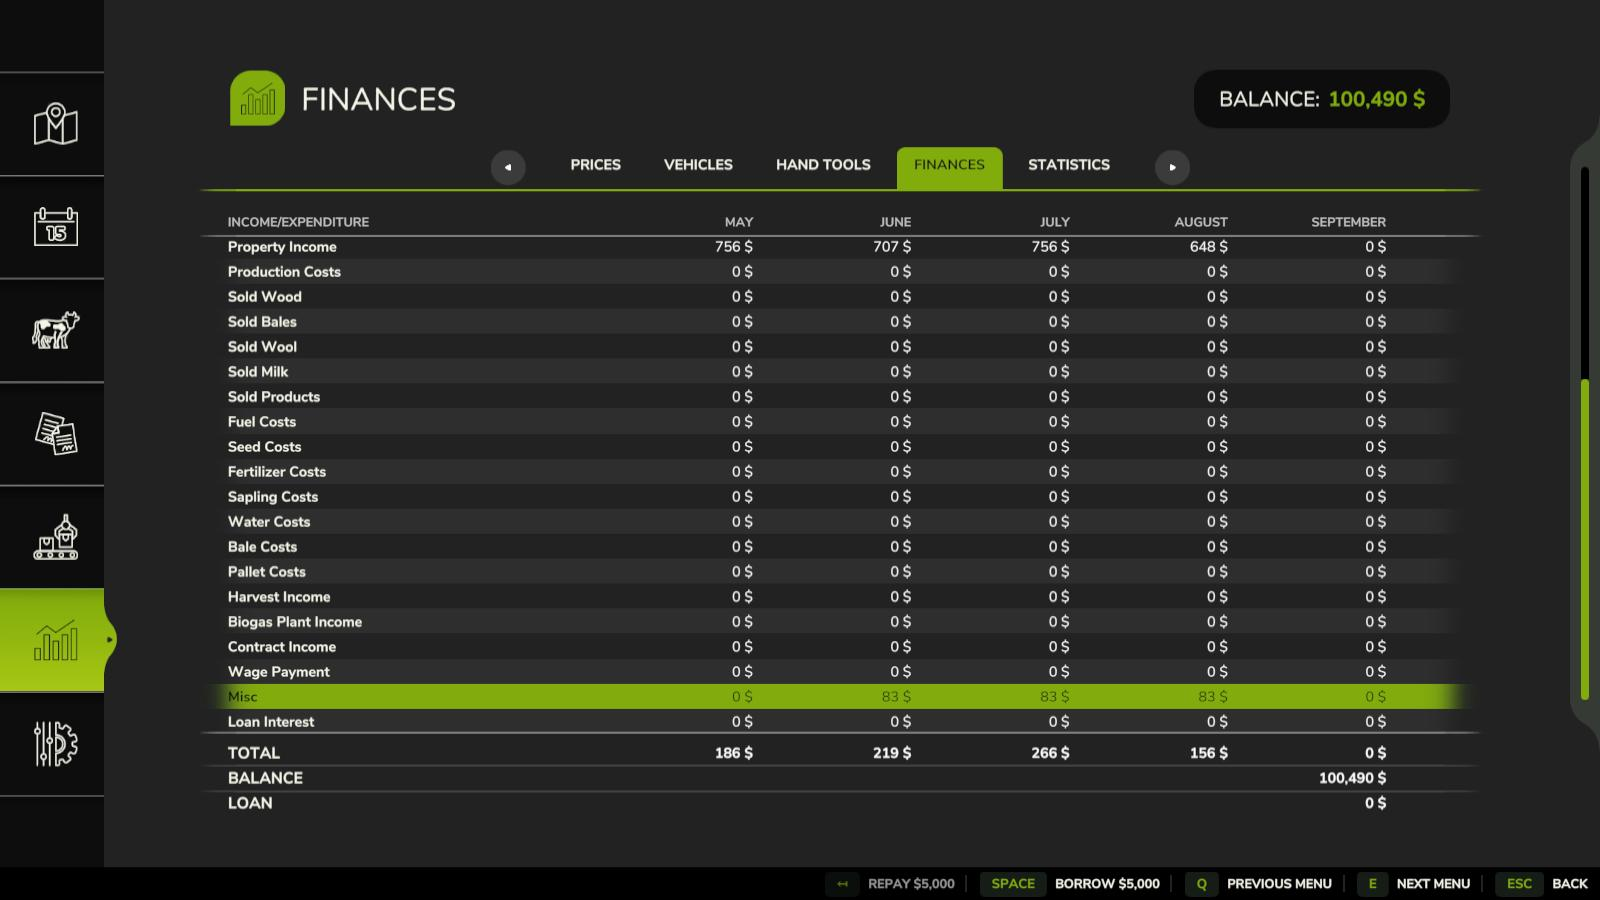
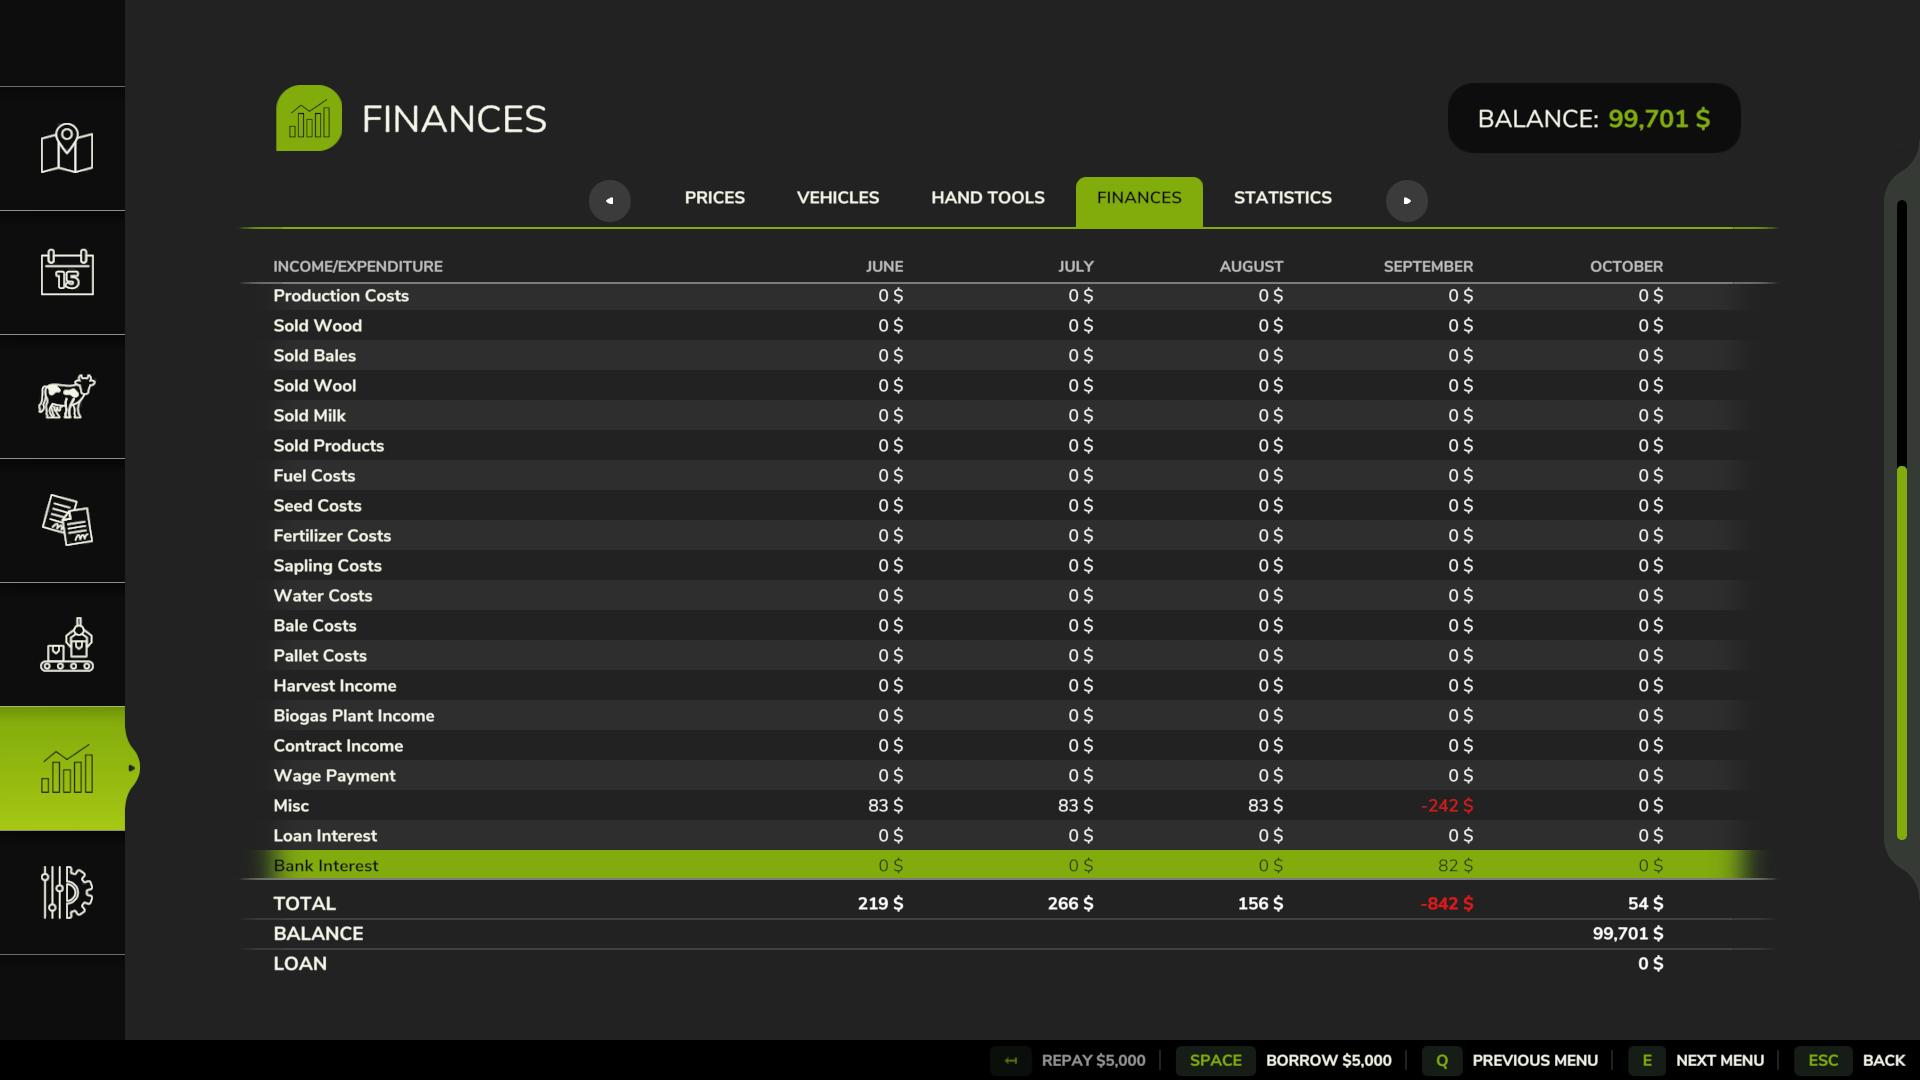
Adds interest paid money type (#3)
* Adds interest paid money type

* Update mod desc to 1.2.0.0

* Update readme commands to list

Pull request: Adds interest paid money type

diff --git a/README.md b/README.md
@@ -1,10 +1,9 @@
-# FS25 Bank Account Interest
+# :moneybag: FS25 Bank Account Interest
 Adds interest calculations so that a farm's bank balance earns interest at the beginning of every month. The default rate is 1% APY.
 
 Two dev console commands have been added to control the interest rate:
-`biSetInterestRate <interest_rate>` - allows the modification of the interest rate. ex: `biSetInterestRate 0.01` would set the interest rate to the default.
-`biGetInterestRate` - prints the current interest rate to the console.
+- `biSetInterestRate <interest_rate>` - allows the modification of the interest rate. ex: `biSetInterestRate 0.01` would set the interest rate to the default.
+- `biGetInterestRate` - prints the current interest rate to the console.
 
-### Manual build instructions
+## :hammer_and_wrench: Manual build instructions
 `git archive -o FS25_bankAccountInterest.zip HEAD`
-